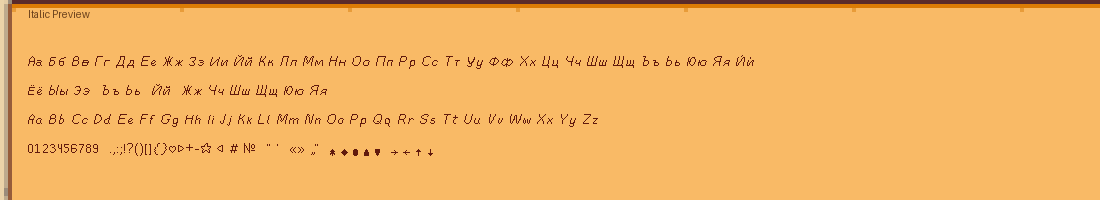
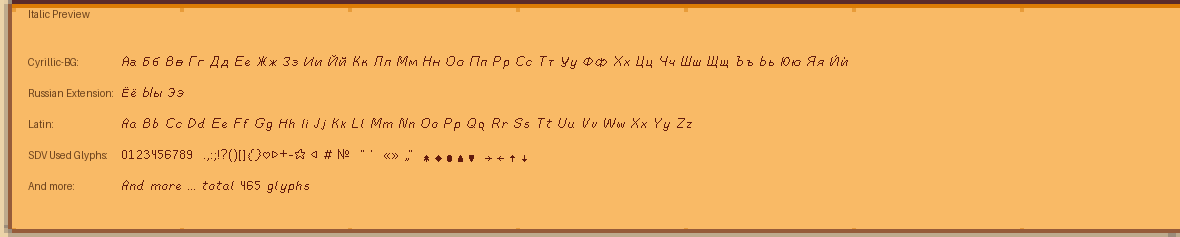
Improve preview layout and glyph showcase

diff --git a/build-scripts/render_glyph_contact_sheets.py b/build-scripts/render_glyph_contact_sheets.py
@@ -4,21 +4,25 @@ import json
 import os
 from pathlib import Path
 
-from PIL import Image, ImageDraw
+from PIL import Image, ImageDraw, ImageFont
 
 
 PANEL_PADDING_X = 28
 PANEL_PADDING_Y = 20
-LINE_GAP = 14
+LINE_GAP = 16
 TITLE_HEIGHT = 34
 BG_COLOR = (235, 211, 168, 255)
 TITLE_COLOR = (107, 65, 28, 255)
+GLYPH_COLOR = (97, 26, 13, 255)
+LABEL_COLOR = (107, 65, 28, 255)
+LABEL_GAP = 10
 
 
-SAMPLE_LINES = [
-    "Аа Бб Вв Гг Дд Ее Жж Зз Ии Йй Кк Лл Мм Нн Оо Пп Рр Сс Тт Уу Фф Хх Цц Чч Шш Щщ Ъъ Ьь Юю Яя Ѝѝ",
-    "Aa Bb Cc Dd Ee Ff Gg Hh Ii Jj Kk Ll Mm Nn Oo Pp Qq Rr Ss Tt Uu Vv Ww Xx Yy Zz",
-    "0123456789  .,:;!?()[]{}<>+-= @ # №  \" '  «» „“  ★ ◆ ● ▲ ▼  → ← ↑ ↓",
+SAMPLE_SECTIONS = [
+    ("Cyrillic-BG", "Аа Бб Вв Гг Дд Ее Жж Зз Ии Йй Кк Лл Мм Нн Оо Пп Рр Сс Тт Уу Фф Хх Цц Чч Шш Щщ Ъъ Ьь Юю Яя Ѝѝ"),
+    ("Russian Extension", "Ёё Ыы Ээ"),
+    ("Latin", "Aa Bb Cc Dd Ee Ff Gg Hh Ii Jj Kk Ll Mm Nn Oo Pp Qq Rr Ss Tt Uu Vv Ww Xx Yy Zz"),
+    ("SDV Used Glyphs", "0123456789  .,:;!?()[]{}<>+-= @ # №  \" '  «» „“  ★ ◆ ● ▲ ▼  → ← ↑ ↓"),
 ]
 
 
@@ -95,14 +99,36 @@ def render_line(draw_target: Image.Image, glyphs: dict[str, dict], line: str, x:
             cursor += 10
             continue
         glyph = Image.open(record["image_path"]).convert("RGBA")
+        alpha = glyph.getchannel("A")
+        tinted = Image.new("RGBA", glyph.size, GLYPH_COLOR)
+        tinted.putalpha(alpha)
+        glyph = tinted
         draw_target.alpha_composite(glyph, (cursor, y + record["yoffset"]))
         cursor += max(1, record["xadvance"])
 
 
+def measure_line(glyphs: dict[str, dict], line: str) -> int:
+    width = 0
+    for char in line:
+        record = glyphs.get(char)
+        if record is None:
+            width += 10
+            continue
+        width += max(1, record["xadvance"])
+    return width
+
+
 def render_sheet(glyphs: dict[str, dict], output_path: Path, title: str, ui_panel_path: Path | None) -> None:
+    label_font = ImageFont.load_default()
     line_height = max((Image.open(record["image_path"]).height + record["yoffset"] for record in glyphs.values()), default=24)
-    width = 1100
-    height = TITLE_HEIGHT + PANEL_PADDING_Y * 2 + len(SAMPLE_LINES) * line_height + (len(SAMPLE_LINES) - 1) * LINE_GAP + 24
+    label_width = max((ImageDraw.Draw(Image.new("RGBA", (1, 1))).textbbox((0, 0), label, font=label_font)[2] for label, _ in SAMPLE_SECTIONS), default=120)
+    widest_line = max((measure_line(glyphs, line) for _, line in SAMPLE_SECTIONS), default=900)
+    total_text = f"And more ... total {len(glyphs)} glyphs"
+    total_width = measure_line(glyphs, total_text)
+    content_width = max(widest_line, total_width)
+    width = max(1180, PANEL_PADDING_X * 2 + label_width + LABEL_GAP + content_width + 24)
+    section_count = len(SAMPLE_SECTIONS) + 1
+    height = TITLE_HEIGHT + PANEL_PADDING_Y * 2 + section_count * line_height + (section_count - 1) * LINE_GAP + 24
 
     image = Image.new("RGBA", (width, height), BG_COLOR)
     if ui_panel_path is not None:
@@ -117,9 +143,15 @@ def render_sheet(glyphs: dict[str, dict], output_path: Path, title: str, ui_pane
     draw.text((PANEL_PADDING_X, 8), title, fill=TITLE_COLOR)
 
     baseline_y = TITLE_HEIGHT + PANEL_PADDING_Y
-    for idx, line in enumerate(SAMPLE_LINES):
+    sample_x = PANEL_PADDING_X + label_width + LABEL_GAP
+    for idx, (label, line) in enumerate(SAMPLE_SECTIONS):
         y = baseline_y + idx * (line_height + LINE_GAP)
-        render_line(image, glyphs, line, PANEL_PADDING_X, y)
+        draw.text((PANEL_PADDING_X, y + 2), f"{label}:", fill=LABEL_COLOR, font=label_font)
+        render_line(image, glyphs, line, sample_x, y)
+
+    footer_y = baseline_y + len(SAMPLE_SECTIONS) * (line_height + LINE_GAP)
+    draw.text((PANEL_PADDING_X, footer_y + 2), "And more:", fill=LABEL_COLOR, font=label_font)
+    render_line(image, glyphs, total_text, sample_x, footer_y)
 
     output_path.parent.mkdir(parents=True, exist_ok=True)
     image.save(output_path)